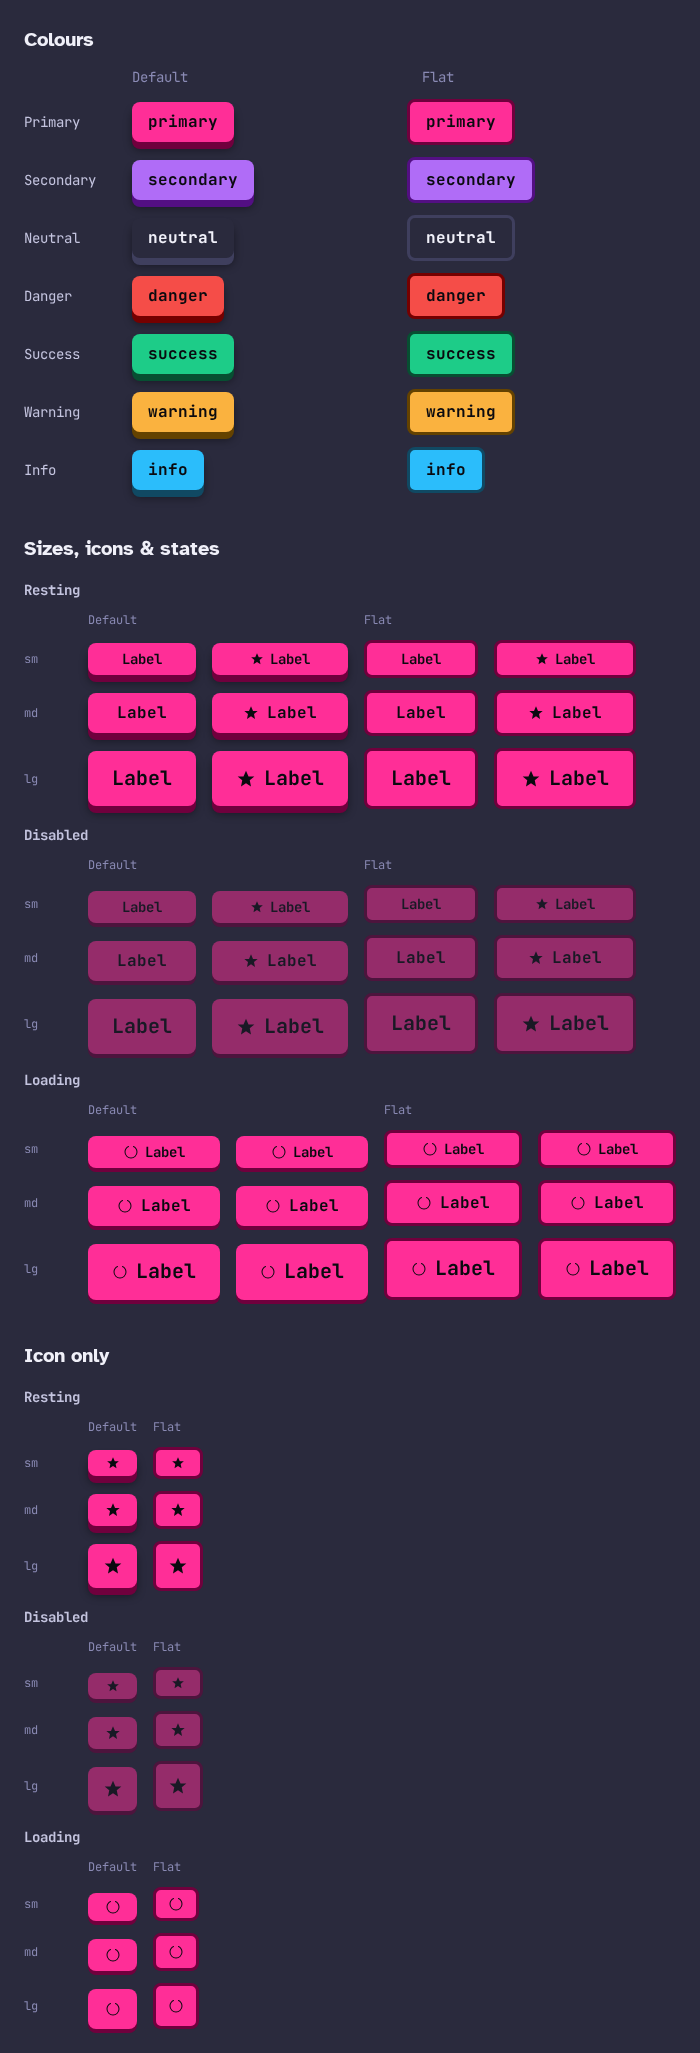
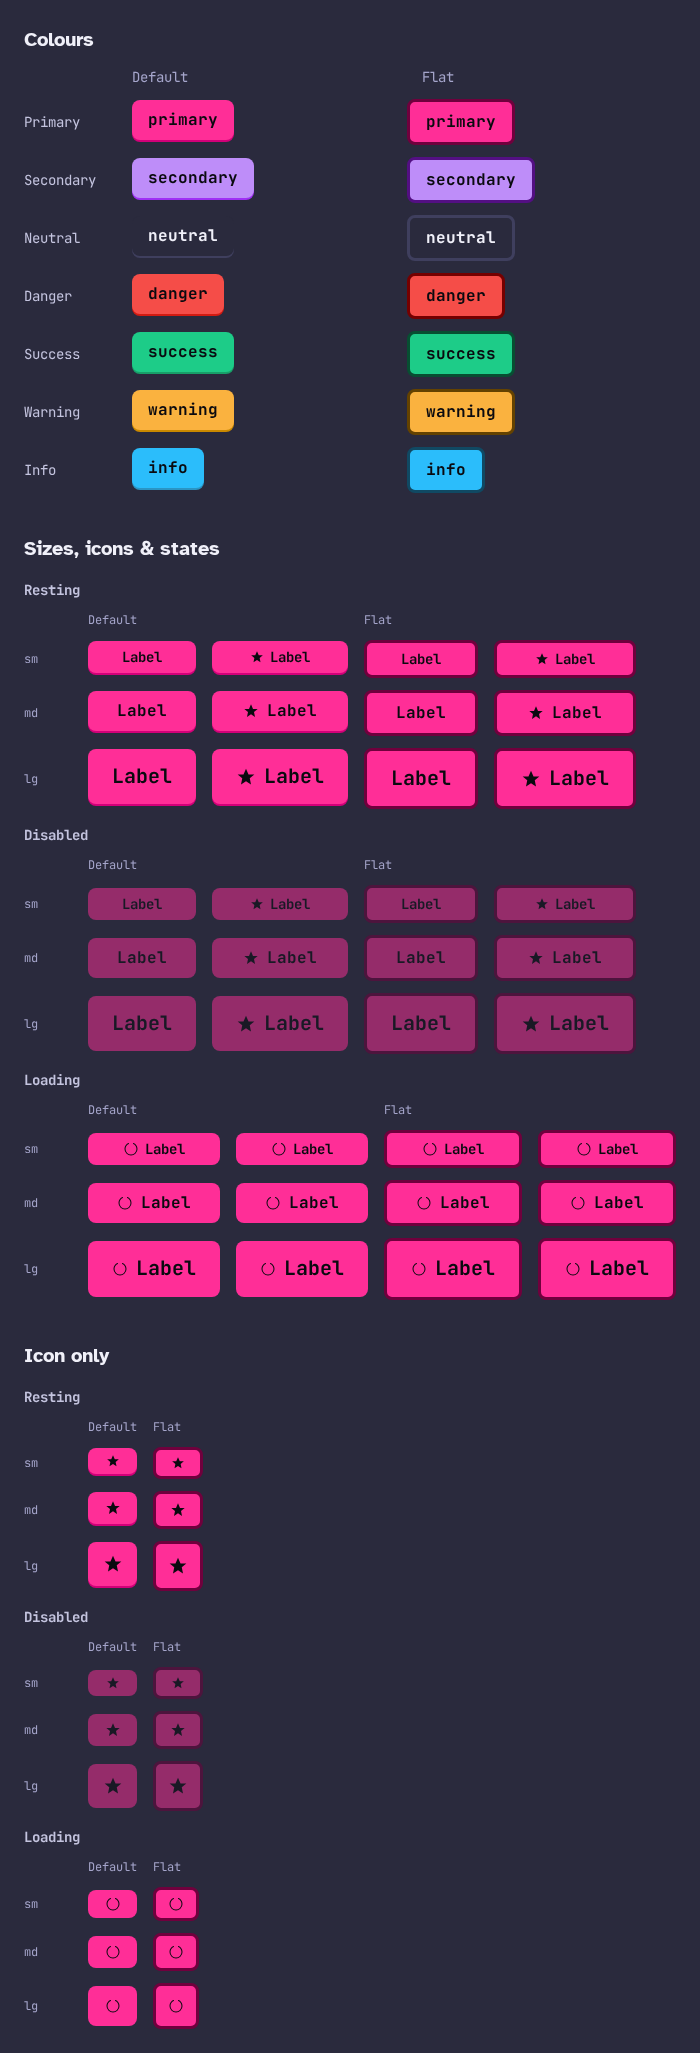
fix(ui): wire button onto elevation lift+shadow tokens, fix hover desync
Replace the hand-rolled magic-number button shadows with the elevation
tokens: rest = shadow-{intent}-higher + lift-full, hover = high + lift-half,
active = inset low + translate-0. The per-intent coloured edge moves to an
intentShadows map (the shared variant string can't carry an intent-coloured
edge); neutral takes the plain ladder.

Two fixes that pin the edge's bottom to the flat baseline across states:
- lift == shadow offset per rung, so translate-up cancels shadow-down (the
  stale 6px/3px lift values were over-lifting past the 4px/2px edges).
- transition only filter. A Tailwind shadow-* utility rides --tw-shadow
  (syntax "*", non-interpolable) so box-shadow snaps; --tw-translate-y tweens.
  Transitioning both desynced them mid-hover (shadow up, then cap drifts down).
  Snapping the geometry as one keeps the base pinned every frame.

See decisions/0006-button-elevation-mechanic.md.

diff --git a/packages/ui/src/components/AtButton.vue b/packages/ui/src/components/AtButton.vue
@@ -74,10 +74,16 @@ const iconOnly = computed(() => {
 // the interaction states so disabled buttons stay inert. motion-reduce kills
 // the transition. ease-[ease] preserves the CSS keyword (not Tailwind's default
 // ease-in-out curve).
+// Only filter (brightness) is transitioned. The shadow edge and the lift
+// translate must change in lockstep to keep the edge's bottom pinned, but
+// Tailwind's box-shadow rides --tw-shadow (syntax "*", non-interpolable) so it
+// can never tween -- it snaps. Were transform tweened on its own it would lag
+// the snapping shadow, unpinning the base mid-transition (shadow jumps up, then
+// the cap drifts down). So the geometry snaps as one; only the glow eases.
 const base =
   'inline-flex items-center justify-center font-body font-bold rounded-md select-none ' +
   'bg-[var(--btn-bg)] text-[var(--btn-fg)] ' +
-  'transition-[transform,box-shadow,filter] duration-[120ms] ease-[ease] motion-reduce:transition-none ' +
+  'transition-[filter] duration-[120ms] ease-[ease] motion-reduce:transition-none ' +
   'focus-visible:outline-2 focus-visible:outline-offset-2 focus-visible:outline-border-focus'
 
 // Text buttons get asymmetric padding; icon-only buttons get equal padding so
@@ -94,19 +100,42 @@ const iconOnlySizes: Record<Size, string> = {
   lg: 'text-lg p-3 gap-2',
 }
 
-// The mechanic -- pop, depress, sink. default extrudes on a hard bottom edge in
-// the fill's own dark shade; flat is a quieter intent-tied border. Both drive
-// off --btn-edge.
+// The mechanic -- rest, press, depress. default rides the elevation lift util off
+// the shadow + lift tokens: every state pins the hard edge's bottom to the same
+// baseline (translate-up == shadow-down). Rest sits popped at the `higher` rung
+// (lift-full); hover presses halfway to `high` (lift-half); active drops flush
+// (translate-0) onto the colourway's inset `low`, so the press travel reads as a
+// real key sinking into the surface. The coloured edge comes from the per-intent
+// shadow tokens (intentShadows below); flat is a quieter intent-tied border off
+// --btn-edge.
 const variants: Record<Variant, string> = {
   default:
-    'shadow-[0_7px_0_0_var(--btn-edge),0_8px_8px_0_rgba(0,0,0,0.4)] ' +
-    'hover:enabled:translate-y-[3px] hover:enabled:shadow-[0_4px_0_0_var(--btn-edge),0_5px_6px_0_rgba(0,0,0,0.4)] hover:enabled:brightness-[1.08] ' +
-    'active:enabled:translate-y-[7px] active:enabled:shadow-[inset_0_2px_4px_0_rgba(0,0,0,0.5)] active:enabled:brightness-95 ' +
-    'disabled:translate-y-[3px] disabled:shadow-[0_4px_0_0_var(--btn-edge)]',
+    '-translate-y-lift-full ' +
+    'hover:enabled:-translate-y-lift-half hover:enabled:brightness-[1.08] ' +
+    'active:enabled:translate-y-0 active:enabled:brightness-95 ' +
+    'disabled:translate-y-0 disabled:shadow-flat',
   flat:
     'border-[3px] border-solid border-[color:var(--btn-edge)] ' +
     'hover:enabled:brightness-[1.08] ' +
-    'active:enabled:translate-y-[2px] active:enabled:brightness-95',
+    'active:enabled:translate-y-lift-half active:enabled:brightness-95',
+}
+
+// The default variant's coloured edge ladder, per intent. Rest = `higher` (4px
+// edge), hover = `high` (2px), active = the inset `low` recess. Tailwind only
+// scans literals, so every utility is spelled out. neutral takes the plain
+// neutral ladder; the rest take their colourway's hue-matched edge.
+const intentShadows: Record<Intent, string> = {
+  primary:
+    'shadow-primary-higher hover:enabled:shadow-primary-high active:enabled:shadow-primary-low',
+  secondary:
+    'shadow-secondary-higher hover:enabled:shadow-secondary-high active:enabled:shadow-secondary-low',
+  neutral: 'shadow-higher hover:enabled:shadow-high active:enabled:shadow-low',
+  danger: 'shadow-danger-higher hover:enabled:shadow-danger-high active:enabled:shadow-danger-low',
+  success:
+    'shadow-success-higher hover:enabled:shadow-success-high active:enabled:shadow-success-low',
+  warning:
+    'shadow-warning-higher hover:enabled:shadow-warning-high active:enabled:shadow-warning-low',
+  info: 'shadow-info-higher hover:enabled:shadow-info-high active:enabled:shadow-info-low',
 }
 
 // Each intent supplies the fill, the text colour, and its own dark edge (the
@@ -157,6 +186,9 @@ const classes = computed(() => [
   cursor.value,
   iconOnly.value ? iconOnlySizes[props.size] : sizes[props.size],
   variants[props.variant],
+  // The default variant's edge is intent-coloured, so it can't live in the
+  // shared variant string -- pull the per-intent shadow ladder here.
+  props.variant === 'default' && intentShadows[props.intent],
   // Static dim for an explicitly-disabled button. Skipped while loading: the
   // skeleton pulse already dips opacity to .5 at its trough, and dimming to .5
   // statically would pin it there -- killing the pulse's visible range.